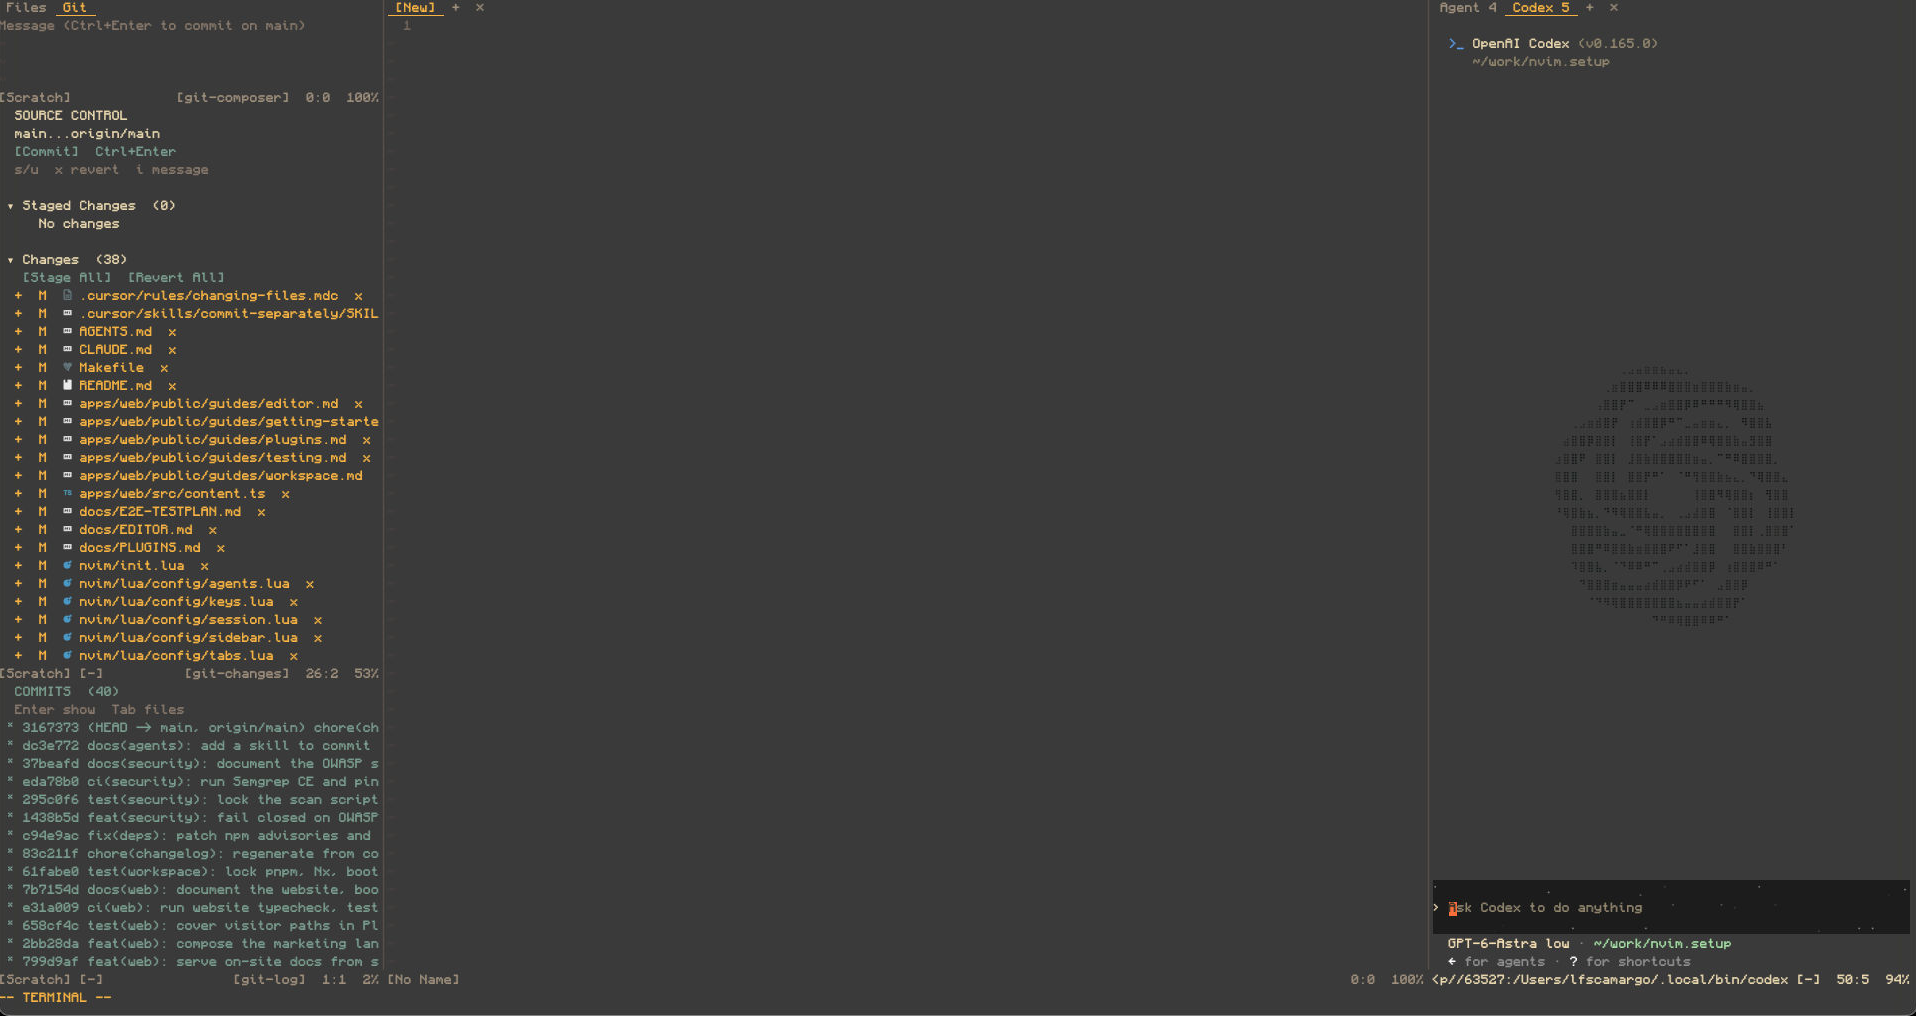
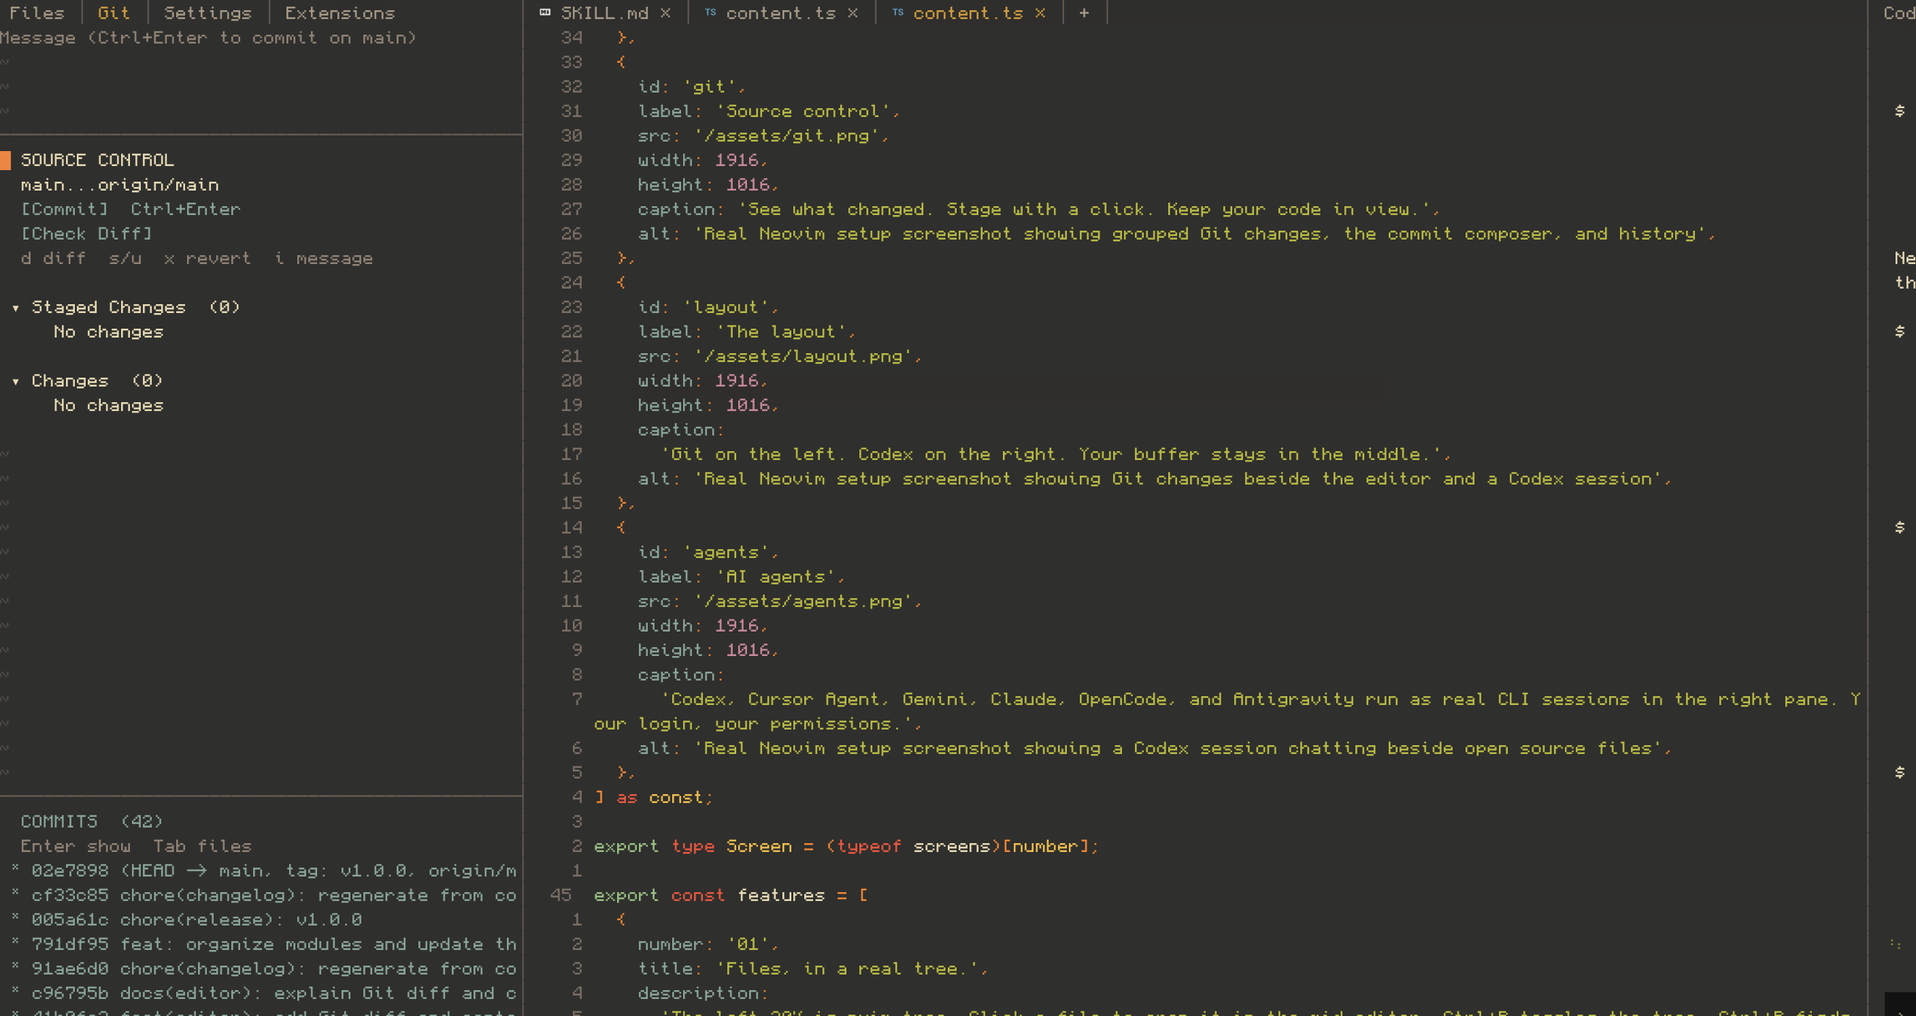
feat(web): photograph the v1 workspace for the landing page

diff --git a/apps/web/src/modules/home/content.ts b/apps/web/src/modules/home/content.ts
@@ -7,7 +7,7 @@ export const screens = [
     height: 1016,
     caption:
       'Files, code, and a place to think. Your terminal, thoughtfully arranged.',
-    alt: 'Real Neovim setup screenshot showing the nvim-tree file sidebar and editor tabs',
+    alt: 'Real Neovim setup screenshot showing Files, Git, Settings, and Extensions beside editor tabs and init.lua',
   },
   {
     id: 'git',
@@ -16,7 +16,7 @@ export const screens = [
     width: 1916,
     height: 1016,
     caption: 'See what changed. Stage with a click. Keep your code in view.',
-    alt: 'Real Neovim setup screenshot showing grouped Git changes, the commit composer, and history',
+    alt: 'Real Neovim setup screenshot showing Git source control, Check Diff, the commit composer, and history',
   },
   {
     id: 'layout',
@@ -36,7 +36,7 @@ export const screens = [
     height: 1016,
     caption:
       'Codex, Cursor Agent, Gemini, Claude, OpenCode, and Antigravity run as real CLI sessions in the right pane. Your login, your permissions.',
-    alt: 'Real Neovim setup screenshot showing a Codex session chatting beside open source files',
+    alt: 'Real Neovim setup screenshot showing a Codex session beside the landing-page feature list in the editor',
   },
 ] as const;
 

diff --git a/apps/web/index.html b/apps/web/index.html
@@ -56,7 +56,7 @@
     />
     <meta
       property="og:image:alt"
-      content="Real Neovim setup screenshot showing the nvim-tree file sidebar and editor tabs"
+      content="Real Neovim setup screenshot showing Files, Git, Settings, and Extensions beside editor tabs and init.lua"
     />
     <meta property="og:image:width" content="1916" />
     <meta property="og:image:height" content="1016" />
@@ -76,7 +76,7 @@
     />
     <meta
       name="twitter:image:alt"
-      content="Real Neovim setup screenshot showing the nvim-tree file sidebar and editor tabs"
+      content="Real Neovim setup screenshot showing Files, Git, Settings, and Extensions beside editor tabs and init.lua"
     />
     <script id="seo-json-ld" type="application/ld+json">
       {

diff --git a/apps/web/public/assets/SCREENSHOTS.md b/apps/web/public/assets/SCREENSHOTS.md
@@ -1,7 +1,7 @@
 # Application screenshots
 
-`editor.png`, `git.png`, `layout.png`, and `agents.png` are photographs of the actual Neovim setup running in a terminal, taken on 2026-10-29. Each image is 1916 × 1016 after cropping away macOS window chrome so the site's screenshot frame is not doubled.
+`editor.png`, `git.png`, `layout.png`, and `agents.png` are photographs of the actual Neovim setup running in Warp on this repository, taken on 2026-10-31. Each image is 1916 × 1016 after cropping away macOS and Warp window chrome so the site's screenshot frame is not doubled.
 
-The Files view shows the nvim-tree sidebar and editor tabs. The Git view shows the asynchronous source-control sidebar, commit composer, and history panel. The layout view shows Git beside a Codex session. The AI agents view shows a live Codex CLI session in the 25% chat pane (`Codex 5`, `Agent 4`) beside open source files. No mockups or generated pictures.
+The Files view shows the nvim-tree sidebar (Files / Git / Settings / Extensions), editor tabs, and `nvim/init.lua`. The Git view shows source control with Check Diff, the commit composer, and history beside open buffers. The layout view is the same three-pane arrangement: Git, the mid editor, and Codex. The AI agents view shows a live Codex session beside `apps/web/src/modules/home/content.ts`. No mockups or generated pictures.
 
 These captures include the real chat CLIs. No credentials are in the frames.
